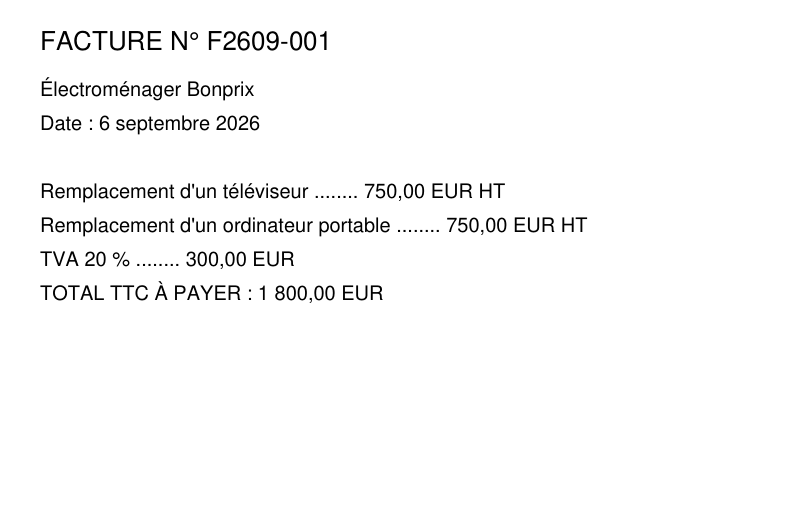
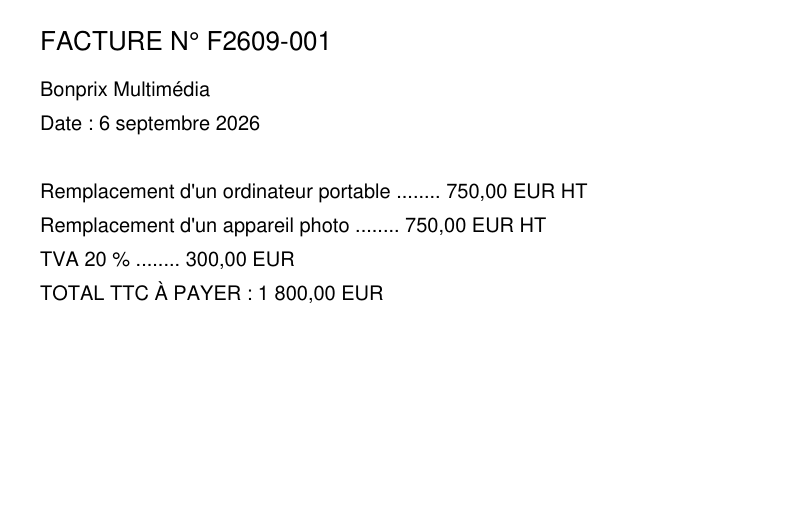
fix(dossiers): les factures de vol remboursent les biens declares (ordinateur portable, appareil photo)
Trouve en etiquetant la coherence des 34 dossiers a la main : la facture de vol
remplacait un televiseur que la declaration ne cite pas. Generateur corrige,
4 images regenerees (generation reproductible : seules ces 4 changent).

Changed region(s): [[0.2812, 0.3385, 0.75, 0.4615], [0.0625, 0.1538, 0.3125, 0.1846]]

diff --git a/outils/generer_dossiers.py b/outils/generer_dossiers.py
@@ -32,11 +32,11 @@ MOIS = ["janvier", "février", "mars", "avril", "mai", "juin", "juillet", "août
         "novembre", "décembre"]
 FLOU_ILLISIBLE = 7
 ARTISANS = {"degat_des_eaux": "Plomberie Durand SARL", "incendie": "Rénov'Habitat SAS",
-            "bris_de_glace": "Miroiterie du Centre", "vol": "Électroménager Bonprix"}
+            "bris_de_glace": "Miroiterie du Centre", "vol": "Bonprix Multimédia"}
 TRAVAUX = {"degat_des_eaux": ("Recherche et réparation de fuite", "Remplacement du parquet"),
            "incendie": ("Déblaiement et nettoyage", "Remise en état des murs et plafonds"),
            "bris_de_glace": ("Dépose du vitrage endommagé", "Fourniture et pose d'un double vitrage"),
-           "vol": ("Remplacement d'un téléviseur", "Remplacement d'un ordinateur portable")}
+           "vol": ("Remplacement d'un ordinateur portable", "Remplacement d'un appareil photo")}
 STATUTS = {"actif": "en vigueur", "suspendu": "suspendu", "resilie": "résilié"}
 
 
